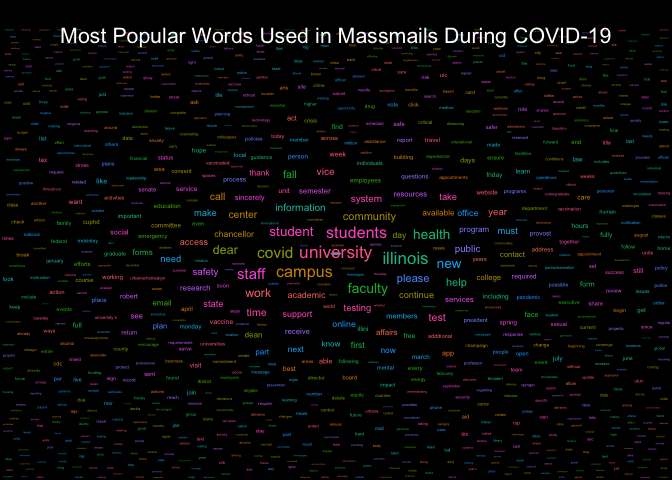
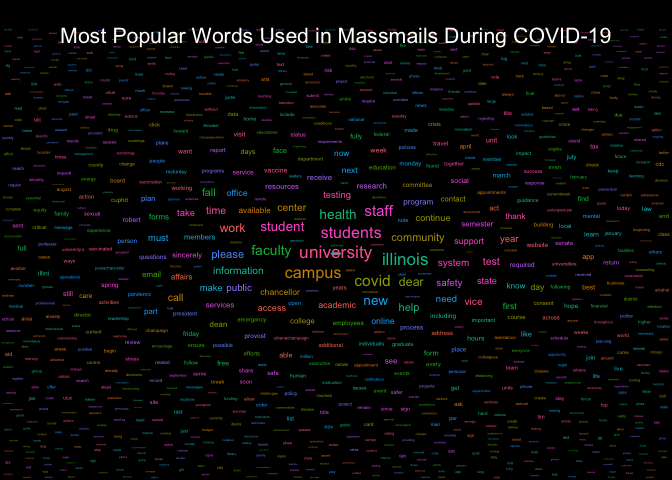
Re-build README.Rmd and Graphs

Changed region(s): [[0.0, 0.0625, 1.0, 1.0], [0.5625, 0.0625, 0.5938, 0.0938]]

diff --git a/README.md b/README.md
@@ -17,7 +17,7 @@ The archive may be viewed here:
 
 <https://massmail.illinois.edu/massmailArchive>
 
-Data has **1846** observations and **7** variables:
+Data has **1847** observations and **7** variables:
 
 - `datetime`: Date and time when the email was sent in the form of
   `YYYY-MM-DD HMS` with either CDT or CST.
@@ -210,11 +210,11 @@ head(most_popular_words, 10) %>%
 
 | word        | freq |
 |:------------|-----:|
-| university  | 2370 |
-| students    | 1956 |
-| campus      | 1743 |
-| illinois    | 1583 |
-| student     | 1179 |
+| university  | 2371 |
+| students    | 1961 |
+| campus      | 1746 |
+| illinois    | 1587 |
+| student     | 1183 |
 | faculty     | 1125 |
 | covid       | 1070 |
 | community   | 1060 |
